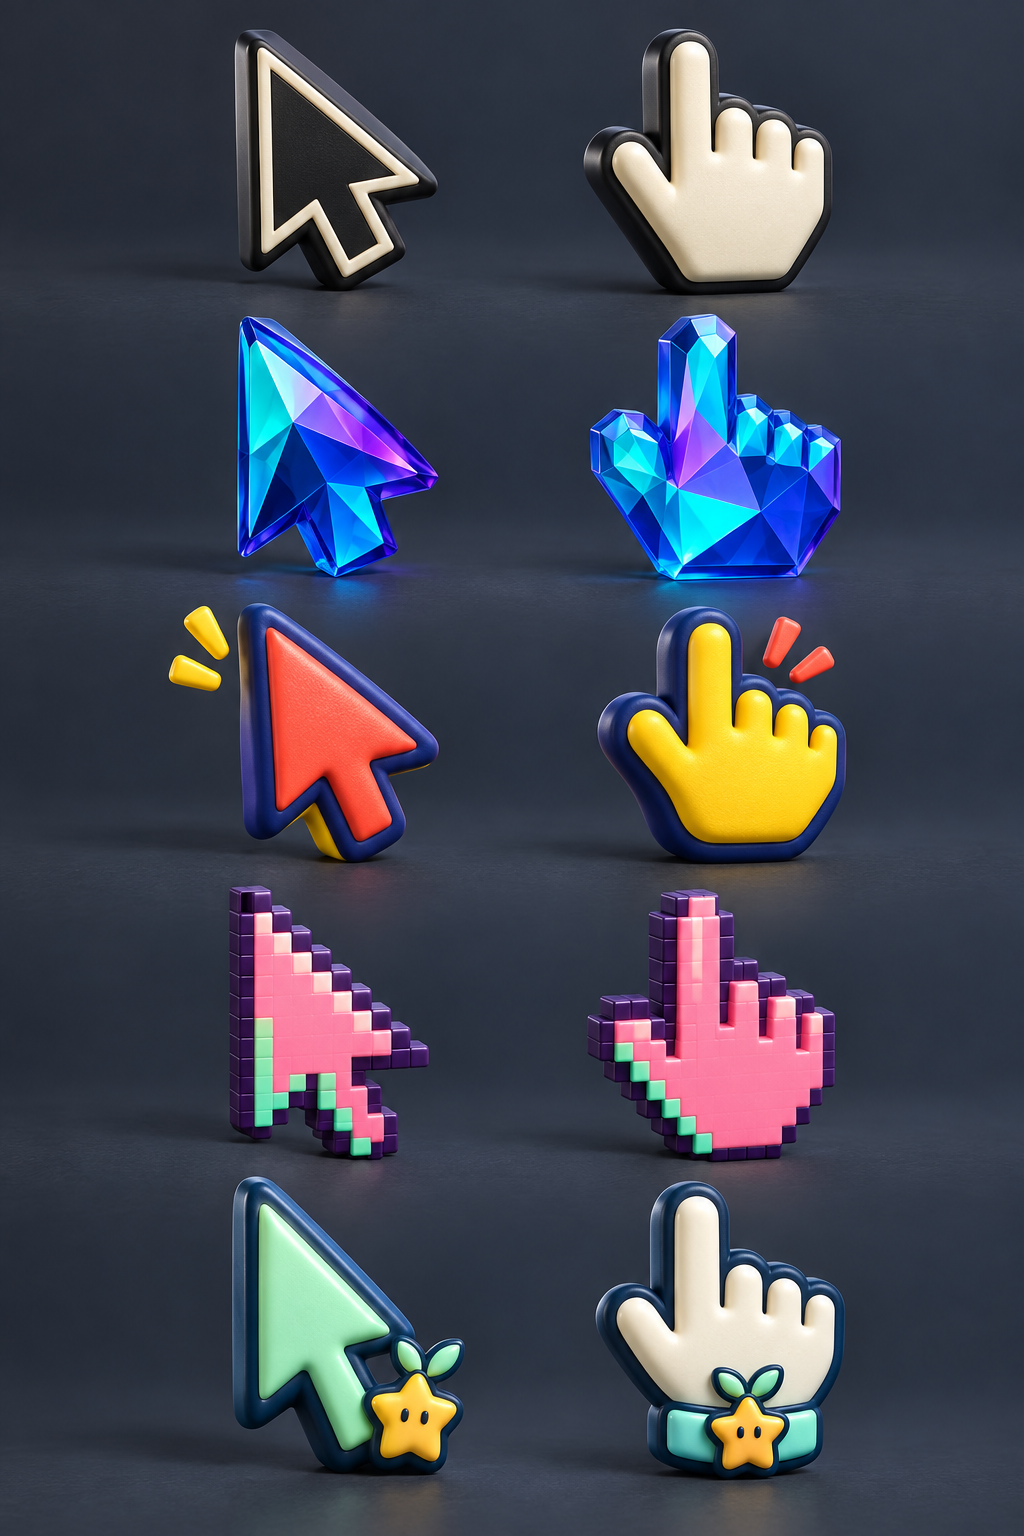
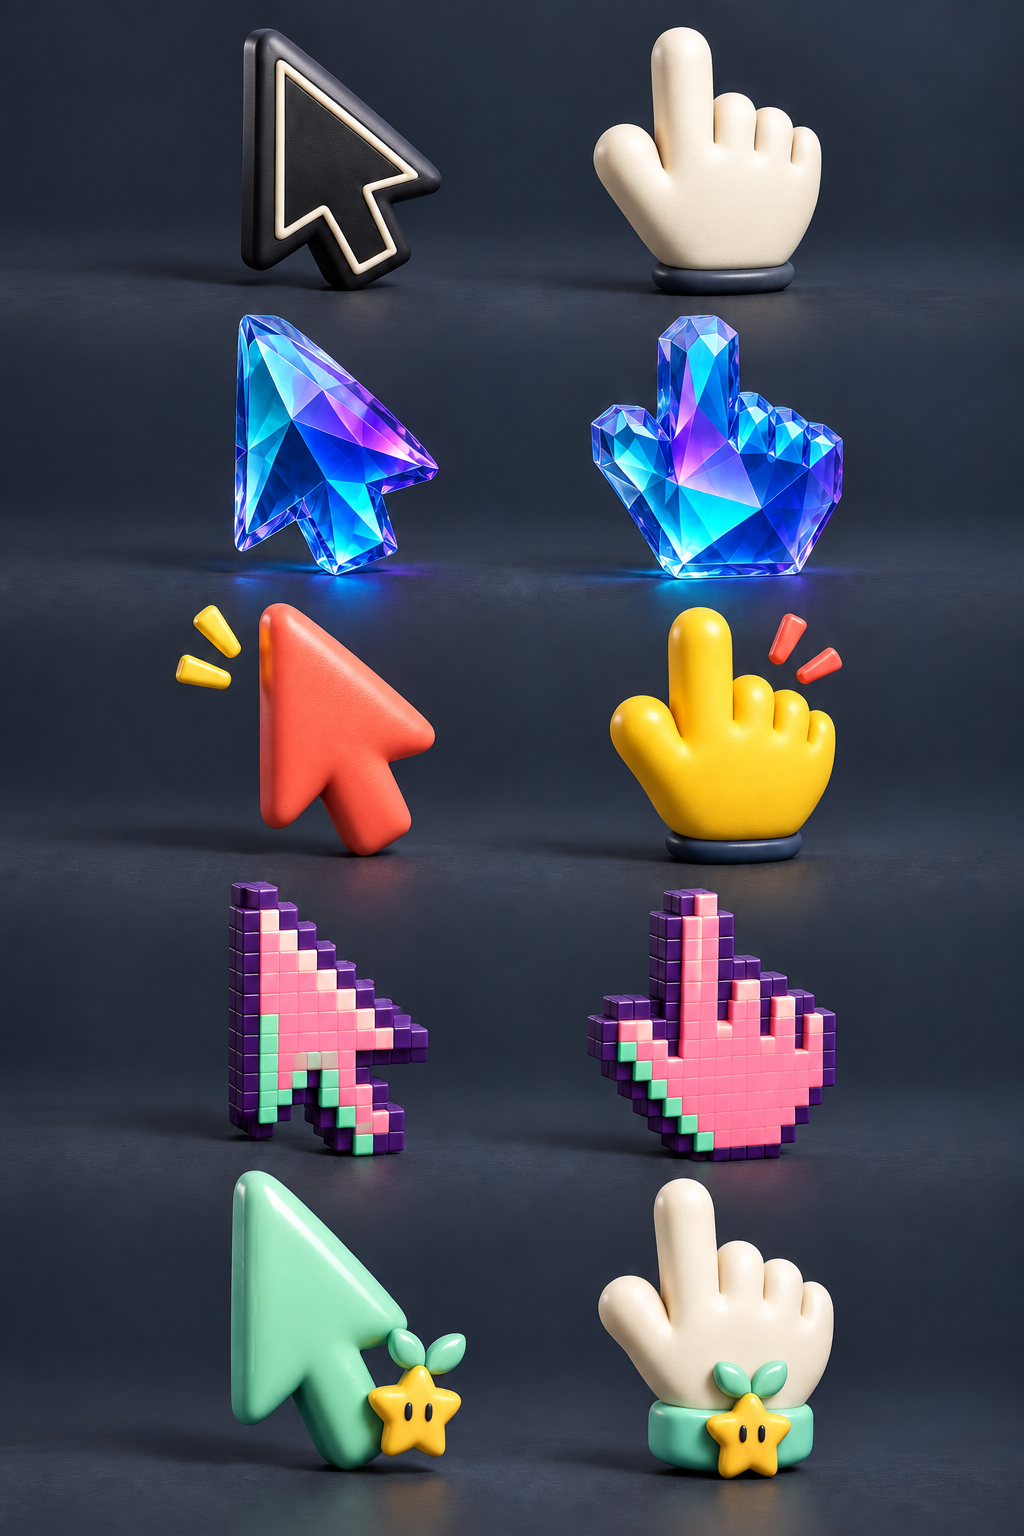
docs(cursor): distinguish 2D outlines from 3D materials

Changed region(s): [[0.5625, 0.0, 0.8438, 0.9688], [0.1562, 0.0, 0.4688, 0.9688], [0.75, 0.7188, 0.7812, 0.75]]

diff --git a/design/cursors/3d-direction.md b/design/cursors/3d-direction.md
@@ -5,20 +5,22 @@ The current compositor's mode 15 rounds an extruded 2D silhouette. It does
 not make a convex palm, separate fingers, or a sculpted arrow body. Do not
 present a bevel adjustment as the finished 3D treatment.
 
-The production 3D version should have authored geometry for each cursor
-theme and state, anchored to the same arrow tip or raised fingertip as its
-flat PNG. The PNG supplies its colour and surface pattern; geometry supplies
-the volume. Pop Coral's decorative offset layer and rays belong to its flat
-art, not its 3D body. The prepared single-surface PNGs can be used as its
-3D colour reference.
+The production 3D version should have authored geometry and materials for
+each cursor theme and state, anchored to the same arrow tip or raised
+fingertip as its flat PNG. The flat PNG supplies a palette and design
+reference; using it unchanged as a 3D face texture would bake its 2D ink
+contour onto the model. Decide separately whether each contour becomes a
+physical inlay, a side material, or disappears. Pop Coral's decorative
+offset layer and rays belong to its flat art, not its 3D body. Its prepared
+single-surface PNGs are colour references, not final 3D textures.
 
-| Theme | Volume direction |
-| --- | --- |
-| Studio Ink | Solid sculpted arrow; convex palm and distinct rounded fingers |
-| Prism Glow | Sharp crystal facets and angular finger segments |
-| Pop Coral | Soft rubber body with generous rounded volume |
-| Pixel Candy | Stepped voxel silhouette with restrained edge rounding |
-| Star Sprout | Soft ceramic body; star and leaves as separate raised details |
+| Theme | Arrow model | Hand model |
+| --- | --- | --- |
+| Studio Ink | Matte black body; ivory line becomes an inset groove, not an outer stroke. | Ivory glove with convex palm and separate rounded fingers; no dark silhouette outline. |
+| Prism Glow | Solid transparent crystal with its own faceted edges; no navy ink stroke. | Individually faceted crystal fingers and palm; no navy ink stroke. |
+| Pop Coral | Soft coral rubber body with a gently rounded tip and no fake yellow offset or navy rim. | Plump yellow rubber fingers and palm; no navy outline, with any accent placed on a physical cuff. |
+| Pixel Candy | Pink and mint face voxels; purple is visible side/back blocks, not a painted line. | Distinct finger voxels and small bevels; purple stays as real side/back blocks. |
+| Star Sprout | Mint ceramic body without a heavy blue border; star and leaves are attached raised pieces. | Ivory glove without blue border; mint cuff and tiny star/leaves are separate parts. |
 
 The model needs a true changing surface normal across the face, visible
 depth in a three-quarter view, correct contact shadows, and a stable hotspot
